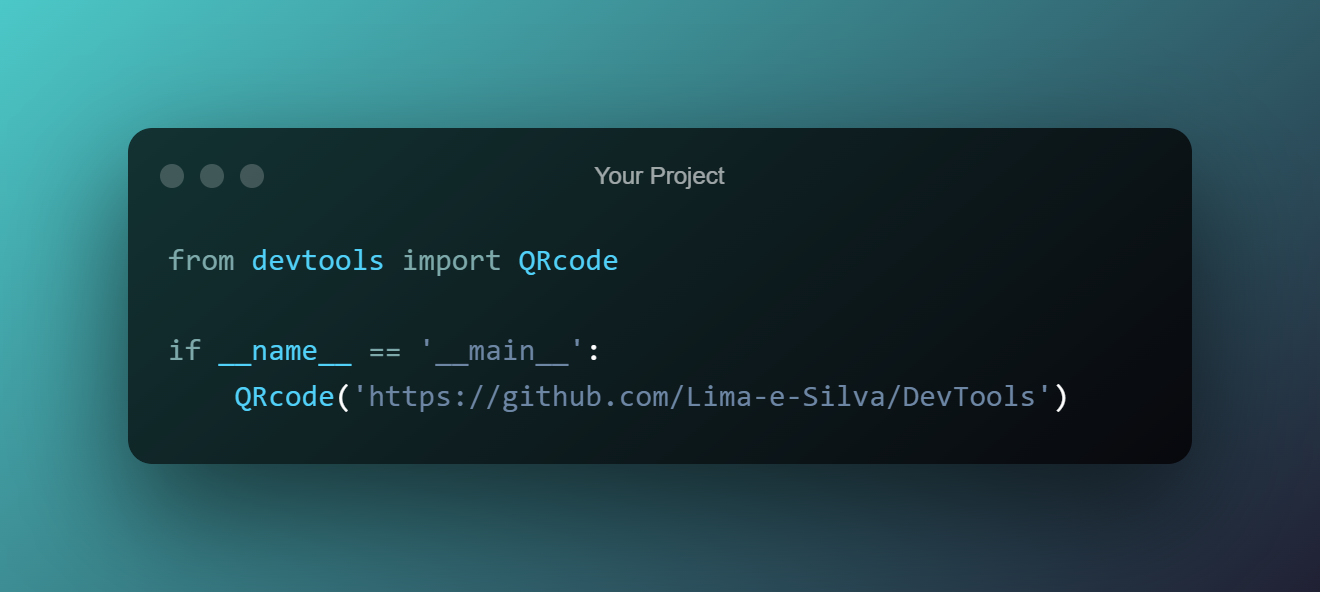
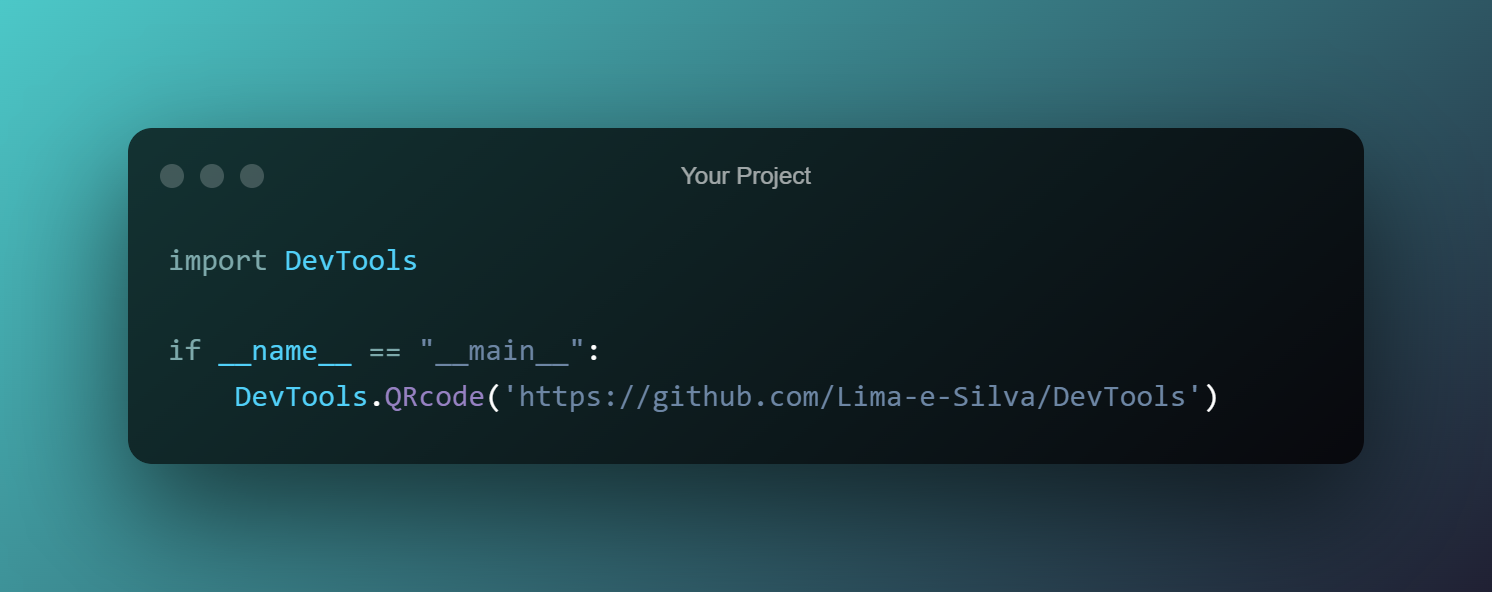
Atualizar README.md

Changed region(s): [[0.0621, 0.2128, 0.8076, 0.7905], [0.8697, 0.2128, 0.9318, 0.7905], [0.4348, 0.2736, 0.5591, 0.3345]]

diff --git a/README.md b/README.md
@@ -13,10 +13,263 @@
  </div>
 
 
+## Sumário
+
+- [Instalação](#instalação)
+- [Uso](#uso)
+  - [Web Scrapping](#web-scrapping)
+  - [Identificação de Erros](#identificação-de-erros)
+  - [Manipulação de Arquivos](#manipulação-de-arquivos)
+  - [Ferramentas Git](#ferramentas-git)
+  - [Ferramentas Windows](#ferramentas-windows)
+  - [Otimização](#otimização)
+  - [Diversos](#diversos)
 
 
-## 🚀 Instalação
- 1. Faça o download do repositório ou : ```git clone https://github.com/Lima-e-Silva/DevTools.git```
- 2. No Prompt de Comando: ```pip install -r requirements.txt```
- 3. Feito 😁
+## Instalação
+
+Para instalar, basta abrir o terminal e inserir o seguinte comando:
+ ```cmd
+ pip --upgrade https://github.com/Lima-e-Silva/DevTools.git
+ ```
  
+ <div align='right'>
+ 
+ <sup>[Voltar ao sumário](#sumário)</sup>
+
+ </div>
+ 
+## Uso
+
+### Web Scrapping
+<details>
+ <summary>Converter header em dicionário Python</summary>
+ 
+ ```python
+ import DevTools
+ 
+ # Os parâmetros do header devem estar salvos num arquivo de texto.
+ headers_dict = DevTools.chrome2dict(headers_path='folder\file.txt')
+ ```
+ </details>
+ 
+ <details>
+ <summary>Salvar código fonte em arquivo de texto</summary>
+ 
+ ```python
+ import requests
+ import DevTools
+ 
+ DevTools.html2txt(url="www.google.com.br", output_path='saída.txt')
+ ```
+ </details>
+ 
+ <details>
+ <summary>Verificar se um determinado endereço IP e porta podem ser usados como proxy</summary>
+ 
+ ```python
+ import DevTools
+ 
+ # Endereços de IP e respectivas portas podem ser encontrados aqui: "https://free-proxy-list.net"
+ ip = '80.252.5.34'
+ port = '7001'
+ 
+ if DevTools.verify_proxy(ip=ip, port=port):
+    print('IP e porta funcionais!')
+ ```
+ </details>
+ 
+ <div align='right'>
+ 
+ <sup>[Voltar ao sumário](#sumário)</sup>
+
+ </div>
+ 
+ ### Identificação de Erros
+ 
+ <details>
+ <summary>Executar uma função com logging de erros</summary>
+ 
+ ```python
+ import DevTools
+ 
+ # Função que está apresentando erros
+ def foo(a,b):
+    return a/b
+ 
+ DevTools.debug_function(foo, a=1, b=0, output='logfile')
+ ```
+ </details>
+ 
+  <div align='right'>
+ 
+  <sup>[Voltar ao sumário](#sumário)</sup>
+
+  </div>
+  
+ ### Manipulação de Arquivos
+ 
+ <details>
+ <summary>Criar arquivo de configuração (cfg)</summary>
+ 
+ ```python
+ import DevTools
+ 
+ config_dict = {
+    'seção': {
+        'A': '1',
+        'B': '2'
+    }
+ }
+ 
+ DevTools.create_cfg(file='config.cfg', cfg_dict=config_dict)
+
+ ```
+ </details>
+ 
+ <details>
+ <summary>Ler arquivo de configuração (cfg)</summary>
+ 
+ ```python
+ import DevTools
+ 
+ config_dict = DevTools.read_cfg(file='config.cfg')
+
+ ```
+ </details>
+  
+ <details>
+ <summary>Criar backup de arquivo</summary>
+ 
+ ```python
+ import DevTools
+
+ DevTools.backup(file='arquivo_importante.txt', output_path='backups/cópias_de_segurança')
+
+ ```
+ </details>
+ 
+  <div align='right'>
+ 
+  <sup>[Voltar ao sumário](#sumário)</sup>
+
+  </div>
+  
+ ### Ferramentas Git
+ 
+ <details>
+ <summary>Criar um ambiente virtual</summary>
+ 
+ ```python
+ import DevTools
+
+DevTools.create_env()
+
+ ```
+ </details>
+ 
+ <details>
+ <summary>Gerar um arquivo de licença</summary>
+ 
+ ```python
+ import DevTools
+
+DevTools.license(license_type='MIT', name='Luiz Paulo Lima e Silva')
+
+ ```
+ </details>
+ 
+ <details>
+ <summary>Gerar um arquivo .gitignore com base num modelo padrão</summary>
+ 
+ ```python
+ import DevTools
+
+DevTools.git_ignore(folders=['pasta-pessoal'], extensions=['xlsx', 'pdf'])
+ ```
+ </details>
+ 
+ <details>
+ <summary>Gerar um arquivo requirements.txt</summary>
+ 
+ ```python
+ import DevTools
+
+DevTools.requirements()
+ ```
+ </details>
+ 
+  <div align='right'>
+ 
+  <sup>[Voltar ao sumário](#sumário)</sup>
+
+  </div>
+  
+ ### Ferramentas Windows
+ 
+ <details>
+ <summary>Criar notificação do Windows</summary>
+ 
+ ```python
+ import DevTools
+
+DevTools.notify(
+    id='DevTools',
+    title='Demonstração',
+    message='Essa notificação trata-se de mera demonstração',
+    buttons={'Abrir link': 'https://github.com/Lima-e-Silva/DevTools/'},
+    sound=True,
+    audio_loop=False)
+
+ ```
+ </details>
+ 
+  <div align='right'>
+ 
+  <sup>[Voltar ao sumário](#sumário)</sup>
+
+  </div>
+  
+ ### Otimização
+ 
+ <details>
+ <summary>Gerar perfil de desempenho de função</summary>
+ 
+ ```python
+ import DevTools
+
+def foo(x, y=3):
+    for n in range(x):
+        print(n**y)
+
+DevTools.prof('output', foo, 100, y=2)
+
+ ```
+ </details>
+ 
+  <div align='right'>
+ 
+  <sup>[Voltar ao sumário](#sumário)</sup>
+
+  </div>
+  
+ ### Diversos
+ 
+ <details>
+ <summary>Gerar QR Code de um link</summary>
+ 
+ ```python
+ import DevTools
+
+DevTools.QRcode(url='https://github.com/Lima-e-Silva/DevTools/',
+                size=150,
+                output='Meu QR Code')
+
+ ```
+ </details>
+ 
+ <div align='right'>
+ 
+  <sup>[Voltar ao sumário](#sumário)</sup>
+
+  </div>
